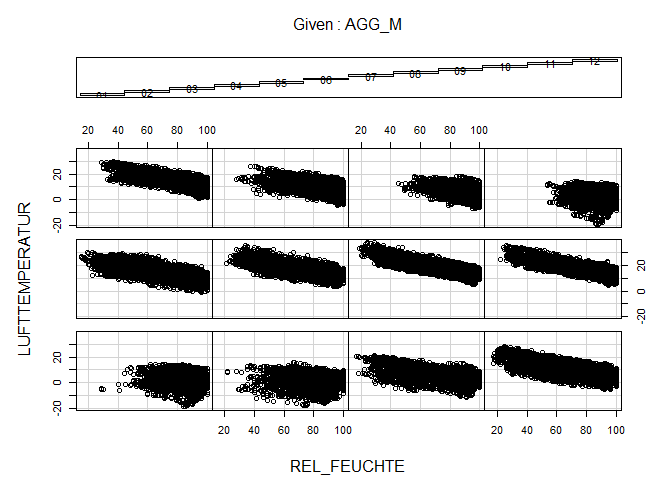
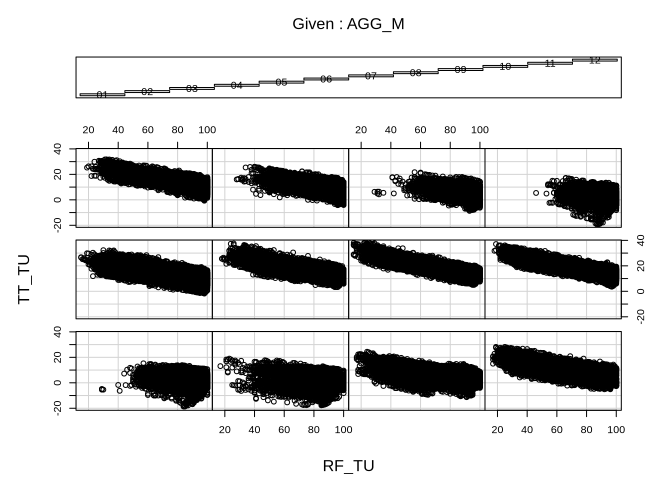
updated dataset; strptime minutes not required; strptime added timezone; fixed typo

diff --git a/docs/units/_unit09/unit09-02_time_series.md b/docs/units/_unit09/unit09-02_time_series.md
@@ -8,37 +8,40 @@ header:
 ---
 
 
-Although we already had contact with some temporal datasets, we did not have a closer formal look on time series analysis. 
-Time series datasets often inhibit some kind of autocorrelation, which is a no go for the models we have used so far. 
+Although we already had contact with some temporal datasets, we did not have a closer formal look on time series analysis.
+Time series datasets often inhibit some kind of autocorrelation, which is a no go for the models we have used so far.
 The first more formal contact with time series will therefore highlight these characteristics. The structure of this example follows Zuur et al. 2007 to a certain degree.
 
-To exemplarily illustrate a time series analysis, air temperature records of the weather station in Cölbe (which is the one closest to Marburg) will be used. 
+To exemplarily illustrate a time series analysis, air temperature records of the weather station in Cölbe (which is the one closest to Marburg) will be used.
 The data has been supplied by the [German Weather Service](https://opendata.dwd.de/climate_environment/CDC/observations_germany){:target="_blank"}.
 
 
 
 ## A first look at the time series
-The time series shows hourly recordings of 2m air temperature between July 1st 2006 and December 31st 2015. 
+The time series shows hourly recordings of 2m air temperature between July 1st 2006 and December 31st 2022.
+
+```{r, echo = FALSE}
+path <- file.path(
+    "/home/alex/Desktop/hiwi",
+    "stundenwerte_TU_03164_20060701_20221231_hist",
+    "produkt_tu_stunde_20060701_20221231_03164.txt"
+)
+
+dwd <- read.table(path, header = TRUE, sep = ";", dec = ".")
+```
 
 ```r
 head(dwd)
 ```
 
 ```
-##   STATIONS_ID MESS_DATUM QUALITAETS_NIVEAU STRUKTUR_VERSION LUFTTEMPERATUR
-## 1        3164 2006070100                 3               38           12.9
-## 2        3164 2006070101                 7               38           12.1
-## 3        3164 2006070102                 7               38           11.8
-## 4        3164 2006070103                 7               38           11.6
-## 5        3164 2006070104                 7               38           11.7
-## 6        3164 2006070105                 7               38           13.2
-##   REL_FEUCHTE eor
-## 1          91 eor
-## 2          91 eor
-## 3          93 eor
-## 4          90 eor
-## 5          91 eor
-## 6          86 eor
+##   STATIONS_ID MESS_DATUM QN_9 TT_TU RF_TU eor
+## 1        3164 2006070100    3  12.9    91 eor
+## 2        3164 2006070101    3  12.1    91 eor
+## 3        3164 2006070102    3  11.8    93 eor
+## 4        3164 2006070103    3  11.6    90 eor
+## 5        3164 2006070104    3  11.7    91 eor
+## 6        3164 2006070105    3  13.2    86 eor
 ```
 
 ```r
@@ -46,29 +49,21 @@ tail(dwd)
 ```
 
 ```
-##       STATIONS_ID MESS_DATUM QUALITAETS_NIVEAU STRUKTUR_VERSION
-## 83297        3164 2015123118                 7               38
-## 83298        3164 2015123119                 7               38
-## 83299        3164 2015123120                 7               38
-## 83300        3164 2015123121                 7               38
-## 83301        3164 2015123122                 7               38
-## 83302        3164 2015123123                 7               38
-##       LUFTTEMPERATUR REL_FEUCHTE eor
-## 83297            4.5          98 eor
-## 83298            4.3         100 eor
-## 83299            4.3         100 eor
-## 83300            4.3         100 eor
-## 83301            4.4         100 eor
-## 83302            4.5          99 eor
+##        STATIONS_ID MESS_DATUM QN_9 TT_TU RF_TU eor
+## 144665        3164 2022123118    3  15.1    67 eor
+## 144666        3164 2022123119    3  14.8    66 eor
+## 144667        3164 2022123120    3  14.7    64 eor
+## 144668        3164 2022123121    3  14.9    60 eor
+## 144669        3164 2022123122    3  15.0    57 eor
+## 144670        3164 2022123123    3  14.6    58 eor
 ```
 
-In order to plot the dataset in a correct manner (i.e. without large gaps at the end of the year when e.g. 2006123123 switches to 2007010100), 
-the data can either be tranformed to a timeseries ``ts`` object or the date column can be converted to some kind of date format. 
-Since we will have a closer look on ``ts`` objects later, let us start with the date conversion. 
-For this purpose, it is necessary to additionally provide minutes to the given date/hour information.
+In order to plot the dataset in a correct manner (i.e. without large gaps at the end of the year when e.g. 2006123123 switches to 2007010100),
+the data can either be tranformed to a timeseries ``ts`` object or the date column can be converted to some kind of date format.
+Since we will have a closer look on ``ts`` objects later, let us start with the date conversion.
 
 ```r
-dwd$DATUM <- strptime(paste0(dwd$MESS_DATUM, "00"), format = "%Y%m%d%H%M")
+dwd$DATUM <- strptime(dwd$MESS_DATUM, format = "%Y%m%d%H", tz = "CEST")
 head(dwd$DATUM)
 ```
 
@@ -78,22 +73,52 @@ head(dwd$DATUM)
 ## [5] "2006-07-01 04:00:00 CEST" "2006-07-01 05:00:00 CEST"
 ```
 
+Have a look at data summary:
+
+```r
+summary(dwd)
+```
+
+```
+##   STATIONS_ID     MESS_DATUM             QN_9       TT_TU         
+##  Min.   :3164   Min.   :2.006e+09   Min.   :3   Min.   :-999.000  
+##  1st Qu.:3164   1st Qu.:2.010e+09   1st Qu.:3   1st Qu.:   4.100  
+##  Median :3164   Median :2.014e+09   Median :3   Median :   9.500  
+##  Mean   :3164   Mean   :2.014e+09   Mean   :3   Mean   :   4.112  
+##  3rd Qu.:3164   3rd Qu.:2.018e+09   3rd Qu.:3   3rd Qu.:  15.600  
+##  Max.   :3164   Max.   :2.022e+09   Max.   :3   Max.   :  38.000  
+##      RF_TU             eor                DATUM                       
+##  Min.   :-999.00   Length:144670      Min.   :2006-07-01 00:00:00.00  
+##  1st Qu.:  68.00   Class :character   1st Qu.:2010-08-16 01:15:00.00  
+##  Median :  84.00   Mode  :character   Median :2014-10-01 00:30:00.00  
+##  Mean   :  71.36                      Mean   :2014-10-01 00:19:01.64  
+##  3rd Qu.:  93.00                      3rd Qu.:2018-11-15 23:45:00.00  
+##  Max.   : 100.00                      Max.   :2022-12-31 23:00:00.00
+```
+
+Remove rows containing -999 in temperature or relative humidity.
+
+```r
+dwd <- dwd[dwd$TT_TU != -999, ]
+dwd <- dwd[dwd$RF_TU != -999, ]
+```
+
 Plotting is now easy:
 
 ```r
-plot(dwd$DATUM, dwd$LUFTTEMPERATUR)
+plot(dwd$DATUM, dwd$TT_TU)
 ```
 
 ![]({{ site.baseurl }}/assets/images/rmd_images/e09-02/unnamed-chunk-4-1.png)<!-- -->
 
-As one can see, there is a clear annual pattern (surprise, surprise). 
-To have a closer look on this pattern, one simple option would be a set of boxplots showing the variation within each month over the entire dataset. 
-To do so, the data in the boxplot has to be grouped by months, what requires a list indicating the class (i.e. month) each temperature record belongs to. 
-The easiest way is to create an additional column in the data frame and copy the characters, which define the months in the original date column to it.
+As one can see, there is a clear annual pattern (surprise, surprise).
+To have a closer look on this pattern, one simple option would be a set of boxplots showing the variation within each month over the entire dataset.
+To do so, the data in the boxplot has to be grouped by months, which requires a list indicating the class (i.e. month) each temperature record belongs to.
+The easiest way is to create an additional column in the data frame and copy the characters, which define the months in the original date column, to it.
 
 ```r
 dwd$AGG_M <- substr(dwd$MESS_DATUM, 5, 6)
-boxplot(dwd$LUFTTEMPERATUR ~ dwd$AGG_M)
+boxplot(dwd$TT_TU ~ dwd$AGG_M)
 ```
 
 ![]({{ site.baseurl }}/assets/images/rmd_images/e09-02/unnamed-chunk-5-1.png)<!-- -->
@@ -103,9 +128,9 @@ If you wonder about the distribution, you can use what we have learned so far:
 ```r
 par_org <- par()
 par(mfrow = c(1,2))
-hist(dwd$LUFTTEMPERATUR, prob = TRUE)
-lines(density(dwd$LUFTTEMPERATUR))
-qqnorm(dwd$LUFTTEMPERATUR)
+hist(dwd$TT_TU, prob = TRUE)
+lines(density(dwd$TT_TU))
+qqnorm(dwd$TT_TU)
 ```
 
 ![]({{ site.baseurl }}/assets/images/rmd_images/e09-02/unnamed-chunk-6-1.png)<!-- -->
@@ -115,45 +140,45 @@ par(par_org)
 ```
 
 ## Auto-correlation
-So far, we always assumed that different observations are independent of each other - a concept which cannot be hold for many time series. 
-Understanding auto-correlation is rather easy. 
-It is the Pearson correlation we already know but not computed based on two different datasets/variables but computed using the same time-series dataset with a temporal lag. 
-For example, the auto-correlation for a lag of 1 would compare each original value observed at time t with the observed value at time t+1. 
-A lag of 10 indicates that observation at time t is correlated with observation t+10 and so on. 
-Please note that the number of available data pairs decreases (e.g. if the dataset has 30 observations, one has 29 pairs for lag 1 but only 1 pair for lag 30). 
-Therefore, it does not make sense to try any possible lag but restrict it to a few lags expected to be highly correlated (e.g. lag 12 for the monthly temperatures above).
+So far, we always assumed that different observations are independent of each other - a concept which cannot be hold for many time series.
+Understanding auto-correlation is rather easy.
+It is the Pearson correlation we already know, but not computed based on two different datasets/variables. It is computed using the same time-series dataset with a temporal lag.
+For example, the auto-correlation for a lag of 1 would compare each original value observed at time t with the observed value at time t+1.
+A lag of 10 indicates that observation at time t is correlated with that at t+10 and so on.
+Please note that the number of available data pairs decreases (e.g. if the dataset has 30 observations, one has 29 pairs for lag 1 but only 1 pair for lag 30).
+Therefore, it does not make sense to try any possible lag ,but restrict it to a few lags expected to be highly correlated (e.g. lag 12 for the monthly temperatures above).
 
-While one can have a look at the actual correlation values, a visualization generally gives a better overview: 
+While one can have a look at the actual correlation values, a visualization generally gives a better overview:
 
 ```r
-acf(dwd$LUFTTEMPERATUR, lag.max = 100)
+acf(dwd$TT_TU, lag.max = 100)
 ```
 
 ![]({{ site.baseurl }}/assets/images/rmd_images/e09-02/unnamed-chunk-7-1.png)<!-- -->
 
-Since we have more than 80.000 values available, we use a maximum lag of 100 although this is done mainly for illustration purposes. 
-Obviously, we have strongest correlations at lags of 24 (i.e the correlation between hourly temperatures is highest if the temperatures are measured at the same time of day). 
-While this holds true, the absolute correlation decreases if the number of days between the observations increases. 
+Since we have more than 143 thousand values available, we use a maximum lag of 100, although this is done mainly for illustration purposes.
+Obviously, we have strongest correlations at lags of 24 (i.e the correlation between hourly temperatures is highest if the temperatures are measured at the same time of day).
+While this holds true, the absolute correlation decreases if the number of days between the observations increases.
 
 Another example shows the auto-correlation of the monthly mean temperatures for which we define an aggregation variable like the one above but now we include not only the month but also the year:
 
 ```r
 dwd$AGG_JM <- substr(dwd$MESS_DATUM, 1, 6)
-tam <- aggregate(dwd$LUFTTEMPERATUR, by = list(dwd$AGG_JM), FUN = mean)
+tam <- aggregate(dwd$TT_TU, by = list(dwd$AGG_JM), FUN = mean)
 colnames(tam) <- c("Date", "Ta")
 acf(tam$Ta)
 ```
 
 ![]({{ site.baseurl }}/assets/images/rmd_images/e09-02/unnamed-chunk-8-1.png)<!-- -->
 
-Now the seasonal pattern becomes evident with negative correlations with a lag of around 6 months (summer/winter, spring/autumn) and positive correlations with lags around 12 months. 
-The blue lines indicate the significance corresponding to a p value of 0.05 if normality can be assumed. 
-The latter is generally the case for time series longer than 30 to 40 values for which the central limit theorem becomes effective. 
+Now the seasonal pattern becomes evident with negative correlations with a lag of around 6 months (summer/winter, spring/autumn) and positive correlations with lags around 12 months.
+The blue lines indicate the significance corresponding to a p value of 0.05 if normality can be assumed.
+The latter is generally the case for time series longer than 30 to 40 values for which the central limit theorem becomes effective.
 
-In addition to auto-correlation, we can also look at partial auto-correlation. 
-The difference between these is that in the partial auto-correlation, the correlation between time lag t=0 and e.g. time lag t=t+10 is computed in such a manner that the influence of the auto-correlations in between is eliminated. 
-This leads to quite different results. 
-For example, if you have a strong auto-correlation with lag 5, than it is not surprising that t=0 is not only related to t=t+5 but also to t=t+5+5. 
+In addition to auto-correlation, we can also look at partial auto-correlation.
+The difference between these is that in the partial auto-correlation, the correlation between time lag t=0 and e.g. time lag t=t+10 is computed in such a manner that the influence of the auto-correlations in between is eliminated.
+This leads to quite different results.
+For example, if you have a strong auto-correlation with lag 5, then it is not surprising that t=0 is not only related to t=t+5 but also to t=t+5+5.
 The partial auto-correlation of our dataset looks like this:
 
 ```r
@@ -171,9 +196,9 @@ Box.test(tam$Ta, lag = 10, type = "Box-Pierce")
 ```
 
 ```
-## 
+##
 ## 	Box-Pierce test
-## 
+##
 ## data:  tam$Ta
 ## X-squared = 378.96, df = 10, p-value < 2.2e-16
 ```
@@ -183,9 +208,9 @@ Box.test(tam$Ta, lag = 10, type = "Ljung-Box")
 ```
 
 ```
-## 
+##
 ## 	Box-Ljung test
-## 
+##
 ## data:  tam$Ta
 ## X-squared = 403.41, df = 10, p-value < 2.2e-16
 ```
@@ -194,11 +219,11 @@ Both tests add up the correlation coefficients until the given lag and compare t
 -->
 
 
-Of course, one can also have a look at cross-correlations including time lags. 
-As example, we use relative humidity, which is also part of the dataset.
+Of course, one can also have a look at cross-correlations including time lags.
+As an example, we use relative humidity, which is also part of the dataset.
 
 ```r
-rhm <- aggregate(dwd$REL_FEUCHTE, by = list(dwd$AGG_JM), FUN = mean)
+rhm <- aggregate(dwd$RF_TU, by = list(dwd$AGG_JM), FUN = mean)
 colnames(rhm) <- c("Date", "rh")
 
 ccf(tam$Ta, rhm$rh)
@@ -206,16 +231,16 @@ ccf(tam$Ta, rhm$rh)
 
 ![]({{ site.baseurl }}/assets/images/rmd_images/e09-02/unnamed-chunk-11-1.png)<!-- -->
 
-Similar. Air humidity is auto-correlated to air temperature. 
+Similarly, air humidity is auto-correlated to air temperature.
 And this relationship is pretty much the same over all months:
 
 ```r
-coplot(LUFTTEMPERATUR ~ REL_FEUCHTE | AGG_M, data = dwd)
+coplot(TT_TU ~ RF_TU | AGG_M, data = dwd)
 ```
 
 ![]({{ site.baseurl }}/assets/images/rmd_images/e09-02/unnamed-chunk-12-1.png)<!-- -->
 
-Auto-correlation analysis gives also a hint on _stationarity_. Stationarity is essential if one e.g. wants to predict future time series values based on auto-regressive or moving average models. 
-Stationarity means that the time series has no trend and has similar variance over the entire time span. 
+Auto-correlation analysis gives also a hint on _stationarity_. Stationarity is essential if one e.g. wants to predict future time series values based on auto-regressive or moving average models.
+Stationarity means that the time series has no trend and has similar variance over the entire time span.
 This is clearly not the case in the temperature data because of the strong seasonality regardless of any long term trend.
 
